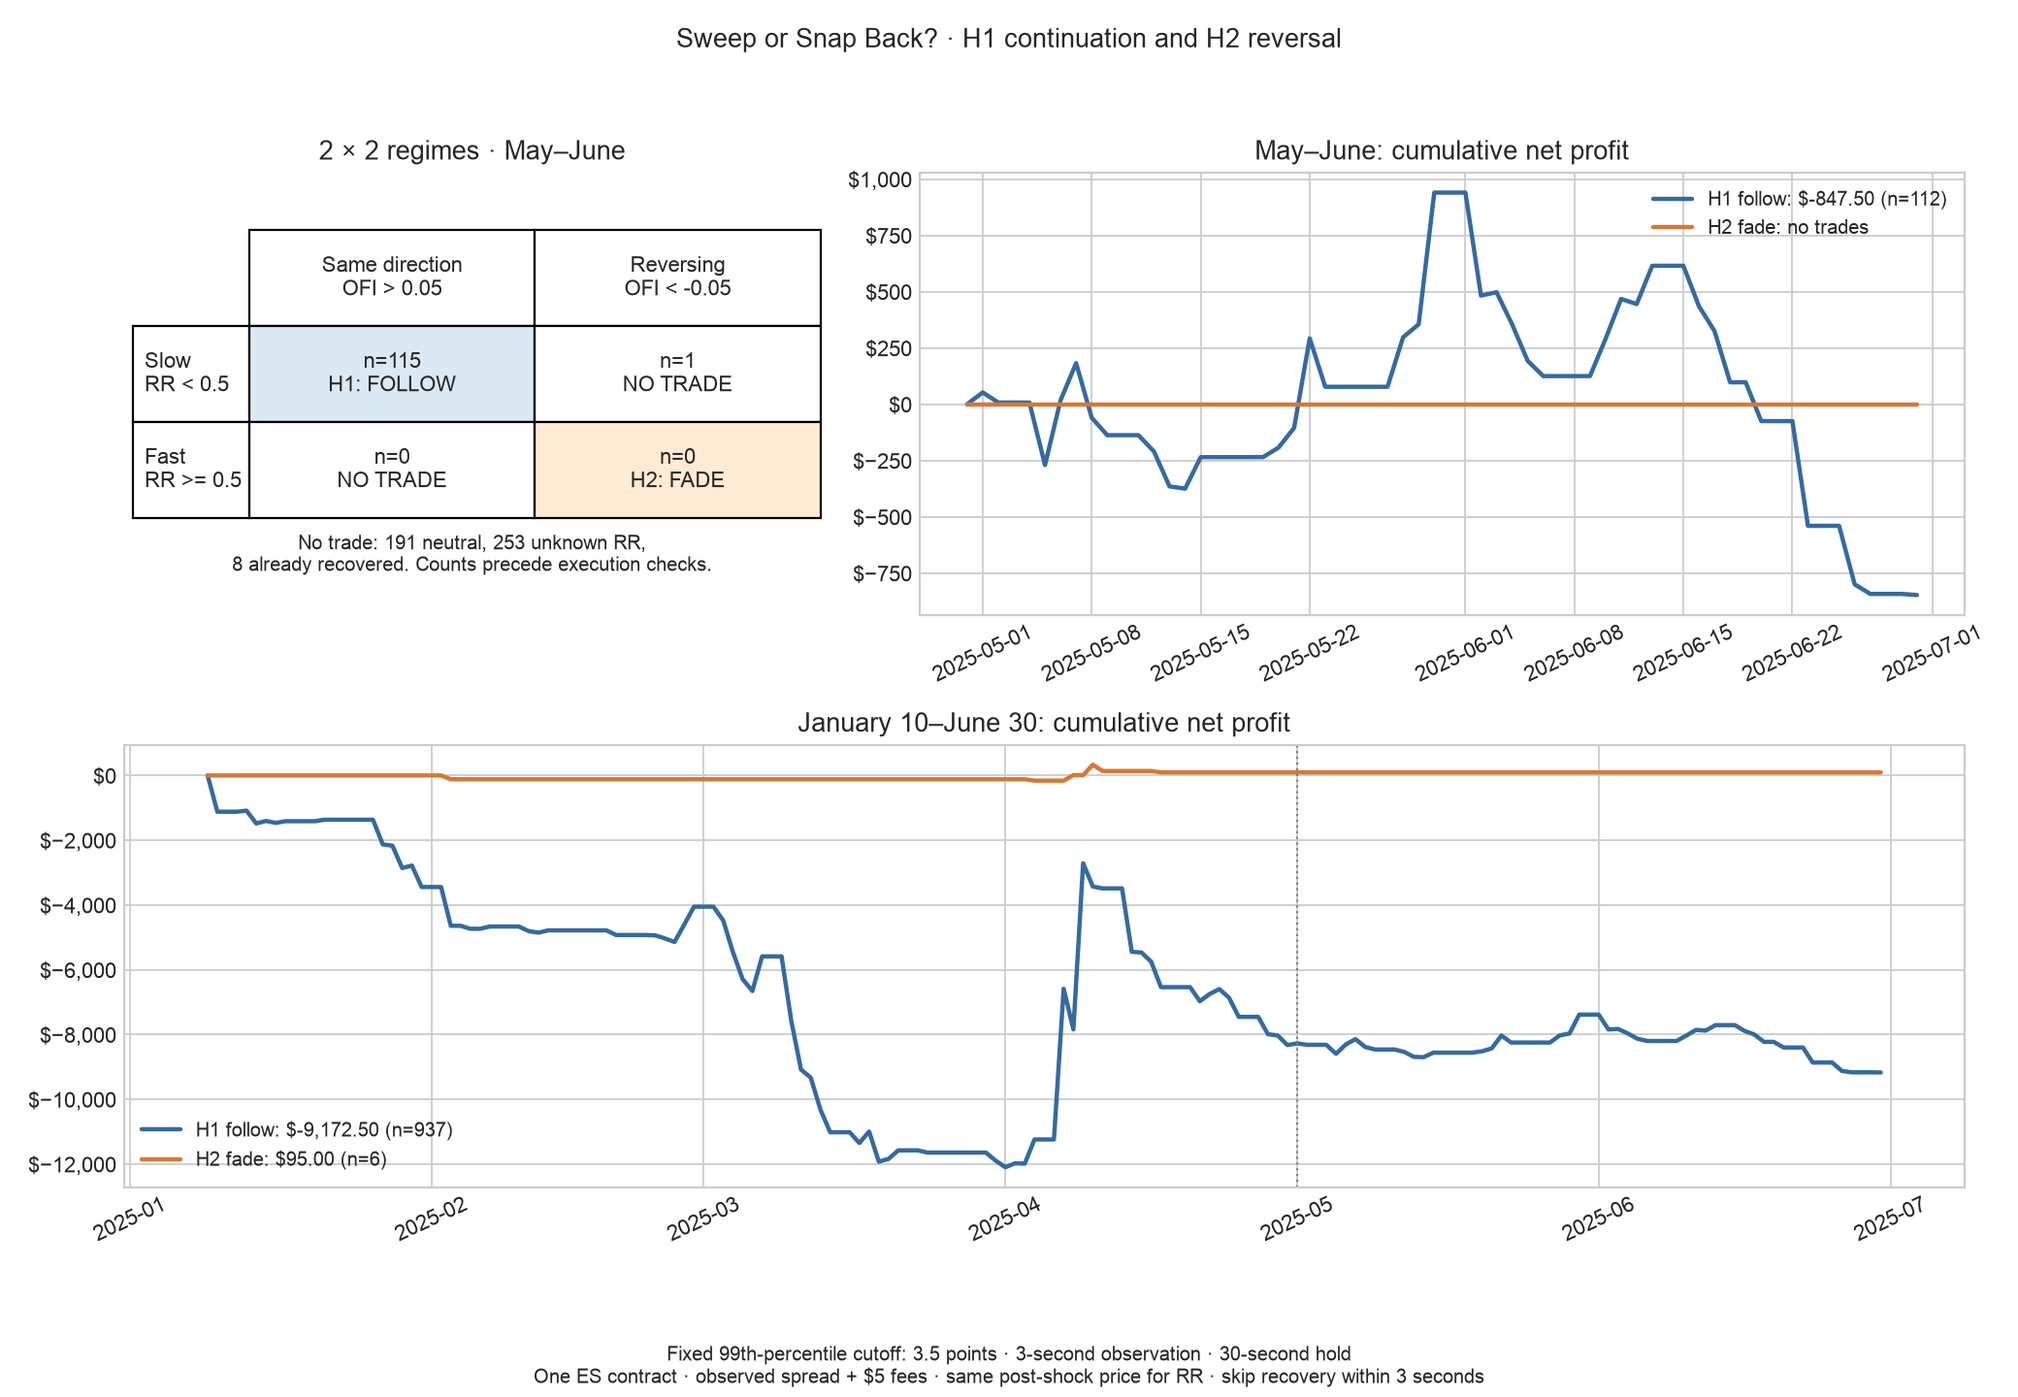
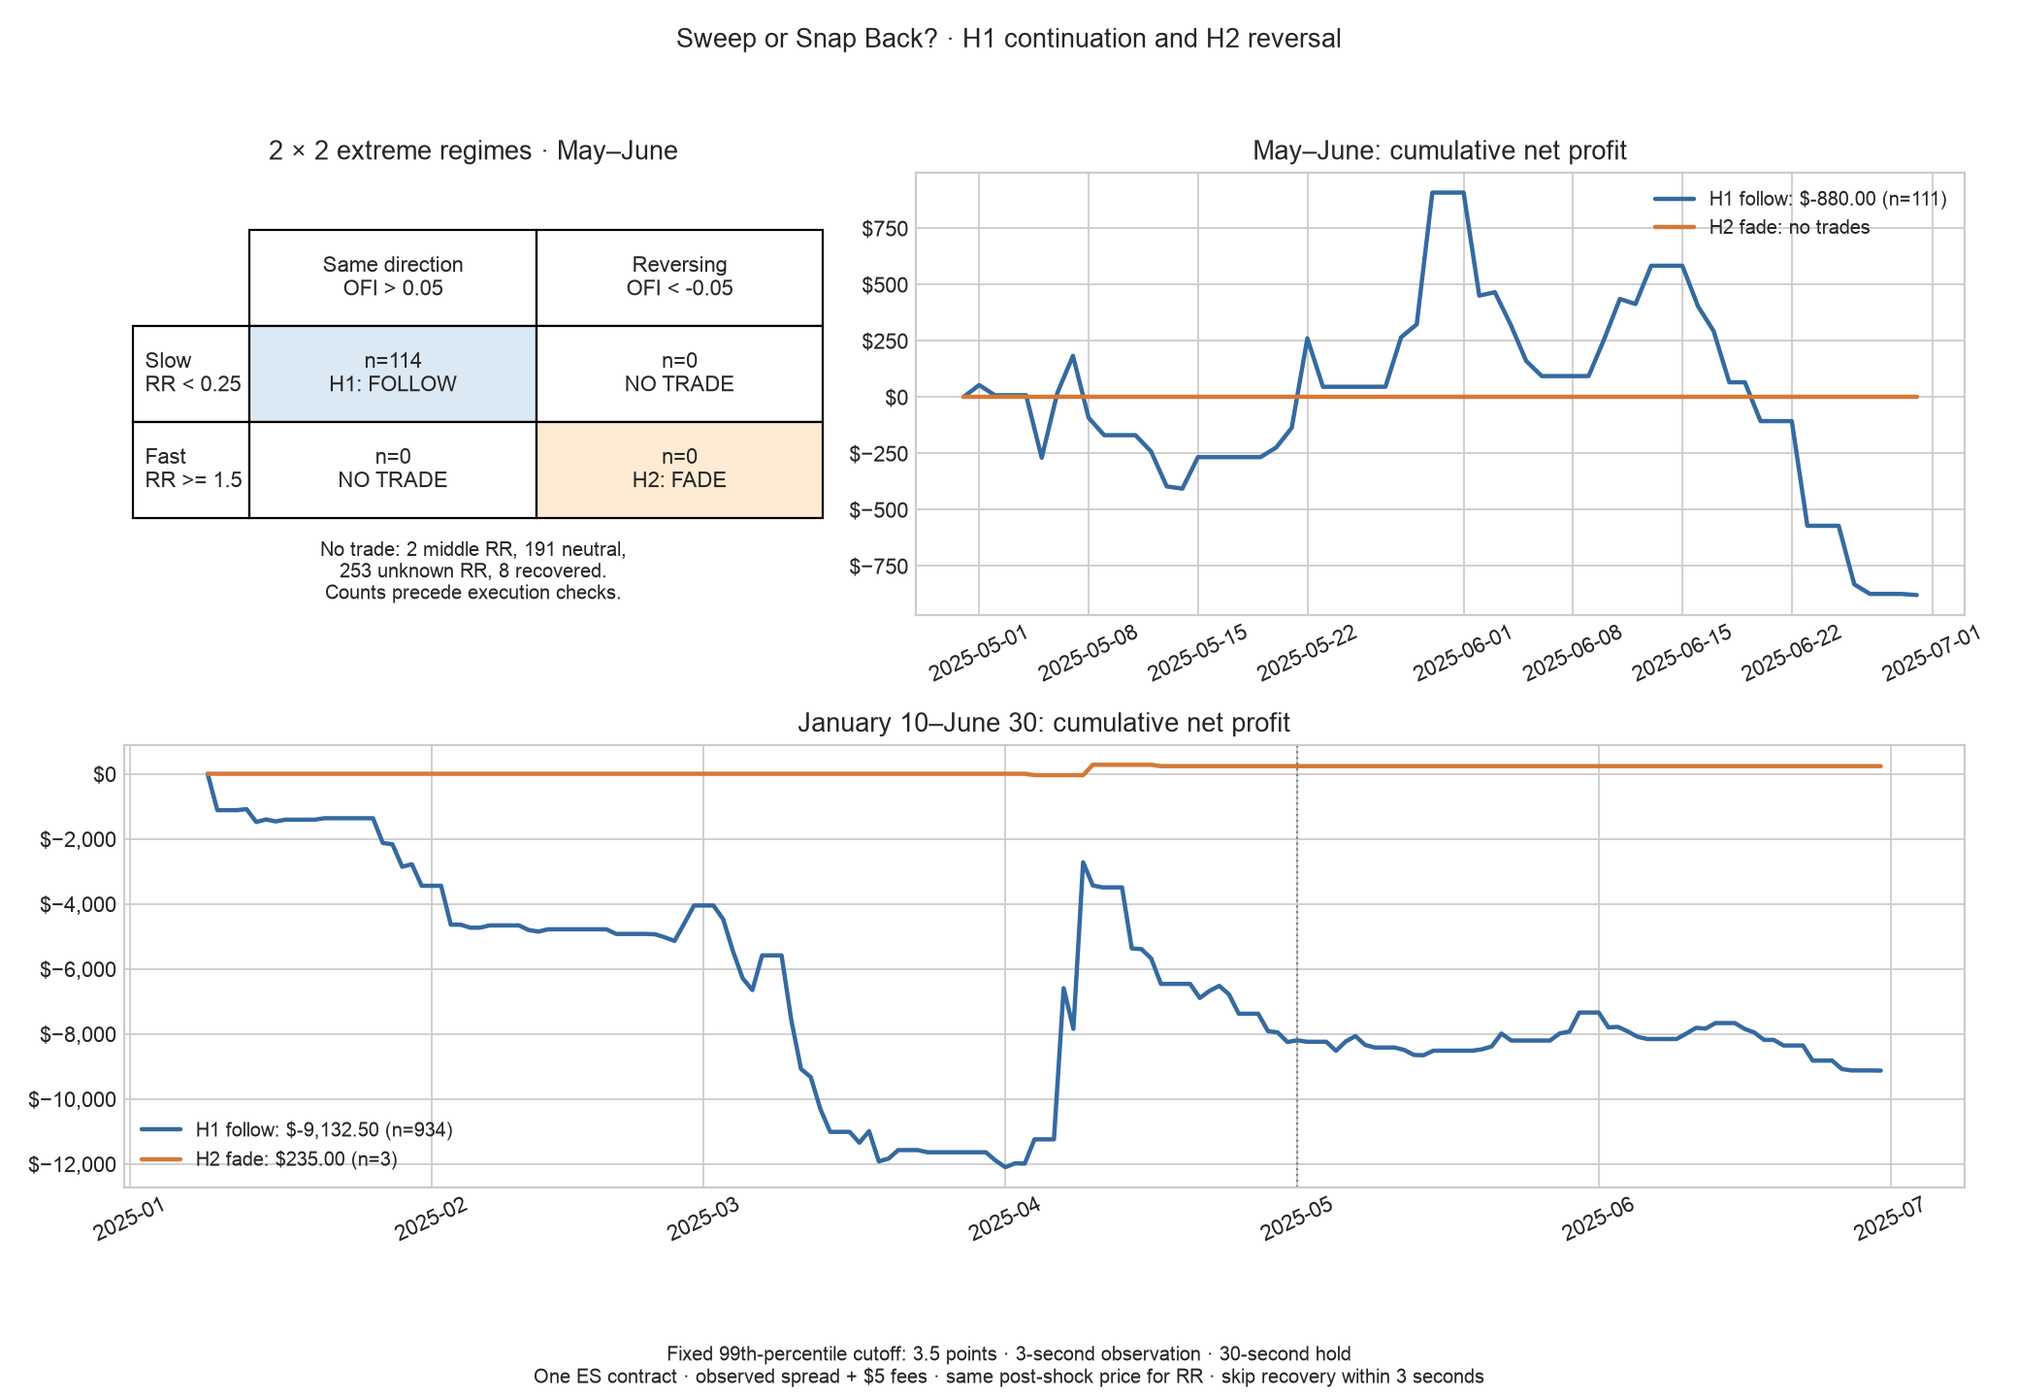
Compare and document separate refill thresholds for H1 and H2

diff --git a/backtest.py b/backtest.py
@@ -10,7 +10,9 @@ from matplotlib.ticker import StrMethodFormatter
 
 HERE = Path(__file__).resolve().parent
 SHOCK_THRESHOLD = 3.5  # 99th percentile from Jan 2, 3, 6, 7, 8; fixed thereafter.
-REFILL_CUTOFF = 0.5
+H1_RR_MAX = 0.25  # RR strictly below this: depleted depth.
+H2_RR_MIN = 1.5   # RR at least this: depth grew by 50%.
+H1_CANDIDATES, H2_CANDIDATES = (0.25, 0.5), (1.0, 1.5)
 FLOW_CUTOFF = 0.05  # More than 5% net quote-flow pressure.
 POINT_VALUE = 50.0  # One ES contract.
 ROUND_TRIP_FEE = 5.0
@@ -18,15 +20,17 @@ FOLLOW, FADE = "Slow / same", "Fast / reversing"
 TRADE_SIGN = {FOLLOW: 1, FADE: -1}  # Relative to the initial price shock.
 
 
-def regime(refill, flow):
+def regime(refill, flow, h1=H1_RR_MAX, h2=H2_RR_MIN):
     if pd.isna(refill) or pd.isna(flow) or abs(flow) <= FLOW_CUTOFF:
         return "Neutral / missing"
-    speed = "Fast" if refill >= REFILL_CUTOFF else "Slow"
+    if h1 <= refill < h2:
+        return "Middle RR: skip"
+    speed = "Fast" if refill >= h2 else "Slow"
     pressure = "same" if flow > FLOW_CUTOFF else "reversing"
     return f"{speed} / {pressure}"
 
 
-def features(events):
+def features(events, h1=H1_RR_MAX, h2=H2_RR_MIN):
     events = events.copy()
     for column in ["shock_time", "entry_time", "exit_time"]:
         events[column] = pd.to_datetime(events[column], utc=True)
@@ -41,7 +45,7 @@ def features(events):
         events.observation_max_mid >= events.pre_shock_mid)
     events["signed_ofi"] = events.direction * events.ofi_sum / events.ofi_abs_sum.where(events.ofi_abs_sum > 0)
     events.loc[events.ofi_abs_sum.eq(0), "signed_ofi"] = 0.0
-    events["regime"] = [regime(r, f) for r, f in zip(events.refill_ratio, events.signed_ofi)]
+    events["regime"] = [regime(r, f, h1, h2) for r, f in zip(events.refill_ratio, events.signed_ofi)]
     events.loc[events.refill_ratio.isna(), "regime"] = "Unknown RR: skip"
     events.loc[events.recovered, "regime"] = "Recovered: skip"
     return events
@@ -98,17 +102,34 @@ def metrics(trades):
             "mean_move_ticks": trades.move_ticks.mean(), "move_ci_low": low, "move_ci_high": high}
 
 
+def compare_thresholds(raw):
+    # Only January–April selects thresholds; May–June never enters this comparison.
+    train = raw[raw.split.eq("train")]
+    rows = []
+    for rule, cell, cutoffs in [("H1", FOLLOW, H1_CANDIDATES), ("H2", FADE, H2_CANDIDATES)]:
+        for cutoff in cutoffs:
+            events = features(train, h1=cutoff if rule == "H1" else H1_RR_MAX,
+                              h2=cutoff if rule == "H2" else H2_RR_MIN)
+            trades = backtest(events[events.regime.eq(cell)])
+            rows.append({"rule": rule, "RR_cutoff": cutoff, "trades": len(trades),
+                         "net_profit": trades.net_profit.sum()})
+    return pd.DataFrame(rows)
+
+
 def main():
     events = pd.read_csv(HERE / "events.csv")
     assert events.threshold_points.eq(SHOCK_THRESHOLD).all()
     assert (events.shock_points > SHOCK_THRESHOLD).all()
+    print("January–April threshold comparison (net profit after spread and fees):")
+    print(compare_thresholds(events).to_string(index=False))
+    print(f"Selected H1: RR < {H1_RR_MAX}; H2: RR >= {H2_RR_MIN}")
     events = features(events)
     rows, test_trades, all_trades = [], None, None
     groups = [("H1 follow", FOLLOW), ("H2 fade", FADE)]
     for split, period in [("all", "Jan10-Jun30"), ("train", "Jan10-Apr30"), ("test", "May-Jun")]:
         sample = events if split == "all" else events[events.split.eq(split)]
         print(f"\n{period}: event counts BEFORE execution exclusions")
-        cells = [FOLLOW, "Slow / reversing", "Fast / same", FADE, "Neutral / missing", "Unknown RR: skip", "Recovered: skip"]
+        cells = [FOLLOW, "Slow / reversing", "Fast / same", FADE, "Middle RR: skip", "Neutral / missing", "Unknown RR: skip", "Recovered: skip"]
         print(sample.regime.value_counts().reindex(cells, fill_value=0).to_string())
         trades = backtest(sample)
         for name, cell in groups:
@@ -132,7 +153,7 @@ def main():
              for row in [[(FOLLOW, "H1: FOLLOW"), ("Slow / reversing", "NO TRADE")],
                          [("Fast / same", "NO TRADE"), (FADE, "H2: FADE")]]]
     axes[0].axis("off")
-    table = axes[0].table(cellText=cells, rowLabels=["Slow\nRR < 0.5", "Fast\nRR >= 0.5"],
+    table = axes[0].table(cellText=cells, rowLabels=[f"Slow\nRR < {H1_RR_MAX:g}", f"Fast\nRR >= {H2_RR_MIN:g}"],
                           colLabels=["Same direction\nOFI > 0.05", "Reversing\nOFI < -0.05"],
                           cellLoc="center", bbox=[0.18, 0.22, 0.82, 0.65])
     table.auto_set_font_size(False)
@@ -141,9 +162,10 @@ def main():
     table[2, 1].set_facecolor("#ffead3")
     neutral = counts.get("Neutral / missing", 0)
     unknown, recovered = counts.get("Unknown RR: skip", 0), counts.get("Recovered: skip", 0)
-    axes[0].set_title("2 × 2 regimes · May–June")
-    axes[0].text(0.5, 0.10, f"No trade: {neutral} neutral, {unknown} unknown RR,\n{recovered} already recovered. Counts precede execution checks.",
-                 transform=axes[0].transAxes, ha="center", fontsize=9)
+    middle = counts.get("Middle RR: skip", 0)
+    axes[0].set_title("2 × 2 extreme regimes · May–June")
+    axes[0].text(0.5, 0.17, f"No trade: {middle} middle RR, {neutral} neutral,\n{unknown} unknown RR, {recovered} recovered.\nCounts precede execution checks.",
+                 transform=axes[0].transAxes, ha="center", va="top", fontsize=9)
     for ax, trades, start, title in [(axes[1], test_trades, "2025-04-30", "May–June: cumulative net profit"),
                                      (full_axis, all_trades, "2025-01-09", "January 10–June 30: cumulative net profit")]:
         days = pd.date_range(start, "2025-06-30", tz="UTC")

diff --git a/README.md b/README.md
@@ -38,7 +38,7 @@ The available MBP-1 data shows only the best bid and ask. For the same example:
 
 | Best ask three seconds later | Quantity used at fixed P = 6004 | RR |
 |---|---|---|
-| 6004, with 5 contracts | 5 | 5 / 20 = 0.25: slow |
+| 6004, with 5 contracts | 5 | 5 / 20 = 0.25: middle, no trade |
 | 6004, with 40 contracts | 40 | 40 / 20 = 2.0: fast |
 | 6004.25 | 0: no ask remains at 6004 | 0: slow |
 | 6003.75 | Unknown: 6004 is behind the best ask | Missing: no trade |
@@ -48,9 +48,11 @@ P means zero at P; a best bid above P hides P deeper in the book.
 A smaller **quantity at the same price** gives a smaller ratio, not automatically zero.
 Zero is used only when the quote has moved past P in the shock direction.
 
-Keep the existing cutoff: **RR < 0.5 is slow; RR >= 0.5 is fast**. Here “fast” is
-our regime label for retaining at least half the post-shock displayed depth.
-Unchanged depth gives RR = 1 and is classified fast. This ratio measures net
+Use separate cutoffs: **H1 needs RR < 0.25; H2 needs RR >= 1.50**.
+H1 requires less than 25% of the post-shock depth to remain; H2 requires at
+least 150% of that depth (a 50% increase). **0.25 <= RR < 1.50 means no trade**.
+RR exactly 0.25 does not qualify for H1; exactly 1.50 qualifies for H2 if flow reverses.
+Unchanged depth gives RR = 1 and now means no trade. This ratio measures net
 displayed depth, not the number of new orders or refill speed; trades and
 cancellations can also change it.
 
@@ -71,17 +73,43 @@ Values from −0.05 through +0.05 are neutral: no trade.
 
 | | Strong same-direction flow | Reversing flow |
 |---|---|---|
-| **Slow refill: RR < 0.5** | **H1: follow** the shock | No trade |
-| **Fast refill: RR >= 0.5** | No trade | **H2: fade** the shock |
+| **Slow refill: RR < 0.25** | **H1: follow** the shock | No trade |
+| **Fast refill: RR >= 1.50** | No trade | **H2: fade** the shock |
 
 H1 buys an up-shock and sells a down-shock. H2 does the opposite.
-The refill cutoff (0.5), flow cutoff (0.05), execution timing, and costs are
-unchanged from the prior run, as is the fixed 99th-percentile shock cutoff.
-This revision changes the RR price/time anchor and excludes already recovered
-shocks. No parameter search was performed. Unknown RR and recovered shocks
-are excluded before the 2 × 2 classification. Results therefore apply to this
-observable subset, not to every shock: MBP-1 often cannot measure the anchored
-price after the market starts reversing.
+The table shows the two extremes; the middle RR range is excluded regardless
+of flow. Unknown RR and already recovered shocks are also excluded.
+Results apply to this observable subset: MBP-1 often cannot measure the anchored
+price after the market starts reversing. Changing cutoffs cannot recover those events.
+
+## Choosing the two thresholds
+
+We specified exactly **two candidates per strategy before computing this comparison**:
+H1 below 0.25 or 0.50 (strict versus moderate depletion); H2 at least 1.00 or
+1.50 (full post-shock depth versus a 50% increase).
+
+**Selection rule:** choose the highest total net profit, including spread and fees,
+using **January 10–April 30 only**, separately for each strategy. If tied, choose
+the stricter cutoff: lower for H1, higher for H2. Freeze the choices for May–June.
+No additional cutoffs were tried after seeing these outcomes.
+
+| Strategy | Candidate rule | January–April trades | January–April net profit | Choice |
+|---|---|---:|---:|---|
+| H1 | RR < 0.25 | 823 | −$8,252.50 | Selected |
+| H1 | RR < 0.50 | 825 | −$8,325.00 |  |
+| H2 | RR >= 1.00 | 3 | $235.00 |  |
+| H2 | RR >= 1.50 | 3 | $235.00 | Selected |
+
+**Selected: H1 < 0.25; H2 >= 1.50.** H1 loses $72.50 less than the 0.50 candidate
+in January–April, but remains unprofitable. The two H2 candidates select the
+**same three trades**, so 1.50 wins only by the stated tie-break; there is no
+evidence that it performs better than 1.00. These are exploratory settings,
+not established optimal thresholds. The tiny H2 sample cannot validate a cutoff.
+
+Only the RR cutoffs changed. The fixed 99th-percentile shock cutoff, same-price
+RR calculation, recovery filter, OFI cutoffs, entry/exit timing, and costs stay fixed.
+May–June was examined in earlier revisions, so it is **not a fresh untouched
+holdout**, even though this comparison does not use it for threshold selection.
 
 ## Backtest results
 
@@ -91,12 +119,12 @@ H1 and H2 use mutually exclusive signals.
 
 | Period | Strategy | Trades | Net profit | Mean net/trade | Win rate | Max drawdown |
 |---|---|---:|---:|---:|---:|---:|
-| Jan 10–Jun 30 | H1 continuation | 937 | **−$9,172.50** | −$9.79 | 44.18% | $12,900.00 |
-| Jan 10–Jun 30 | H2 reversal | 6 | **$95.00** | $15.83 | 33.33% | $235.00 |
-| May–June | H1 continuation | 112 | **−$847.50** | −$7.57 | 41.96% | $1,787.50 |
+| Jan 10–Jun 30 | H1 continuation | 934 | **−$9,132.50** | −$9.78 | 44.11% | $12,907.50 |
+| Jan 10–Jun 30 | H2 reversal | 3 | **$235.00** | $78.33 | 33.33% | $42.50 |
+| May–June | H1 continuation | 111 | **−$880.00** | −$7.93 | 41.44% | $1,787.50 |
 | May–June | H2 reversal | 0 | **$0.00** | — | — | $0.00 |
 
-January 10–April 30 alone: H1 had 825 trades and **−$8,325.00** net; H2 had 6 trades and **$95.00** net. The full-period rows include these development observations. The script also prints gross profit and total fees.
+January 10–April 30 alone: H1 had 823 trades and **−$8,252.50** net; H2 had 3 trades and **$235.00** net. The full-period rows include these development observations. The script also prints gross profit and total fees.
 
 ![Regime counts and profit](results.png)
 
@@ -104,16 +132,16 @@ January 10–April 30 alone: H1 had 825 trades and **−$8,325.00** net; H2 had 
 
 | Period | Hypothesis | Mean favorable move | 95% day-bootstrap interval | Active days |
 |---|---|---:|---:|---:|
-| Jan 10–Jun 30 | H1 continuation | 0.82 ticks | [-0.69, 2.41] ticks | 97 |
-| Jan 10–Jun 30 | H2 reversal | 2.92 ticks | [-7.50, 14.50] ticks | 6 |
-| May–June | H1 continuation | 0.86 ticks | [-0.96, 2.69] ticks | 35 |
+| Jan 10–Jun 30 | H1 continuation | 0.82 ticks | [-0.70, 2.42] ticks | 97 |
+| Jan 10–Jun 30 | H2 reversal | 7.67 ticks | [-2.00, 27.00] ticks | 3 |
+| May–June | H1 continuation | 0.83 ticks | [-1.02, 2.68] ticks | 35 |
 | May–June | H2 reversal | — | — | 0 |
 
 A dash means no estimate is available because there were no trades.
 
-**H1 continuation:** −$9,172.50 net over the full period (937 trades), and −$847.50 in May–June (112 trades). The May–June interval includes zero, so it does not establish a positive mean move in the predicted direction.
+**H1 continuation:** −$9,132.50 net over the full period (934 trades), and −$880.00 in May–June (111 trades). The May–June interval includes zero, so it does not establish a positive mean move in the predicted direction.
 
-**H2 reversal:** $95.00 net over the full period (6 trades), and $0.00 in May–June (0 trades). There were no May–June trades, so the hypothesis cannot be tested in that period. The six full-period trades have a wide interval spanning zero: insufficient evidence for H2.
+**H2 reversal:** $235.00 net over the full period (3 trades), and $0.00 in May–June (0 trades). There were no May–June trades, so the hypothesis cannot be tested in that period. The 3 full-period trades have a wide interval spanning zero: insufficient evidence for H2.
 
 ## Metrics and calculations
 
@@ -126,7 +154,8 @@ A dash means no estimate is available because there were no trades.
   predicted direction, divided by 0.25 to express ticks. Positive supports H1/H2.
 - **95% interval:** 5,000 bootstrap resamples of entire active trading days,
   using seed 0. An interval spanning zero is inconclusive about mean direction.
-  A positive mean move can still be unprofitable after spread and fees.
+  A positive mean move can still be unprofitable after spread and fees. These
+  intervals describe the selected rules and do not adjust for threshold selection.
 
 OFI uses the following quote changes for each update. Add the bid and ask
 contributions to get `e`, then calculate
@@ -149,9 +178,12 @@ python -m pip install pandas numpy matplotlib
 python backtest.py
 ```
 
+`H1_RR_MAX` and `H2_RR_MIN` at the top of the script document the fixed selected
+cutoffs. `H1_CANDIDATES` and `H2_CANDIDATES` document the complete comparison.
+
 Five files, no subfolders: `backtest.py`, `events.csv`, `README.md`, `results.png`,
-and the requested `shocks.png` illustration. The script recalculates RR and OFI
-and the recovery filter from the included observations, prints results, and updates
+and the requested `shocks.png` illustration. The script reproduces the four-candidate January–April comparison, recalculates
+RR, OFI and the recovery filter, prints results, and updates
 `results.png`. The shock illustration is included separately.
 
 The CSV keeps `anchor_price` and `depth_at_shock` at t0, `best_price_after`
@@ -160,11 +192,11 @@ midpoint across the observation window. These let the script calculate the
 same-price RR and detect even a temporary full recovery. OFI uses the saved
 `ofi_sum` and `ofi_abs_sum`. Entry/exit quotes support the profit calculation.
 
-Validation independently checked all 943 trades, shock calibration, quote-side prices, fees, timing and non-overlap. Synthetic cases check both price directions, hidden versus depleted depth, and a recovery that occurs before the window ends. A raw-quote audit checks every event on January 10.
+Validation independently checked all 937 trades, shock calibration, quote-side prices, fees, timing and non-overlap. Checks cover all four candidate results, training-only selection, tie-breaking, exact RR boundaries and the no-trade middle range. The preceding revision also audited same-price quantities and observation-window extrema against raw quotes on January 10; those CSV observations are unchanged.
 
-The calibration uses five sessions; the backtest covers the remaining **117 full sessions**. There are **3,900 detected shocks**, **3,897 valid feature events** (3,329 January–April; 568 May–June), and **3,861 events with complete execution windows**. Across all events, 45 are excluded for recovery; another 1,736 have unknown RR. These exclusion counts do not overlap. Of 952 qualifying H1/H2 events, 9 lack valid execution windows, leaving **943 trades**.
+The calibration uses five sessions; the backtest covers the remaining **117 full sessions**. There are **3,900 detected shocks**, **3,897 valid feature events** (3,329 January–April; 568 May–June), and **3,861 events with complete execution windows**. Across all events, 45 are excluded for recovery; another 1,736 have unknown RR. These exclusion counts do not overlap. Of 946 qualifying H1/H2 events, 9 lack valid execution windows, leaving **937 trades**.
 
-The May–June 2×2 feature-event counts are 115 slow/same, 1 slow/reversing, 0 fast/same and 0 fast/reversing, plus 191 neutral events, 253 unknown-RR exclusions, and 8 recovered-shock exclusions. These counts precede execution exclusions.
+The May–June 2×2 feature-event counts are 114 slow/same, 0 slow/reversing, 0 fast/same and 0 fast/reversing, plus 2 middle-RR events, 191 neutral events, 253 unknown-RR exclusions, and 8 recovered-shock exclusions. These counts precede execution exclusions.
 
 Data: local Databento GLBX.MDP3 ES.v.0 MBP-1 quotes. Holidays and half-days are
 excluded. Invalid/crossed quotes, contract changes, gaps over one second, and
